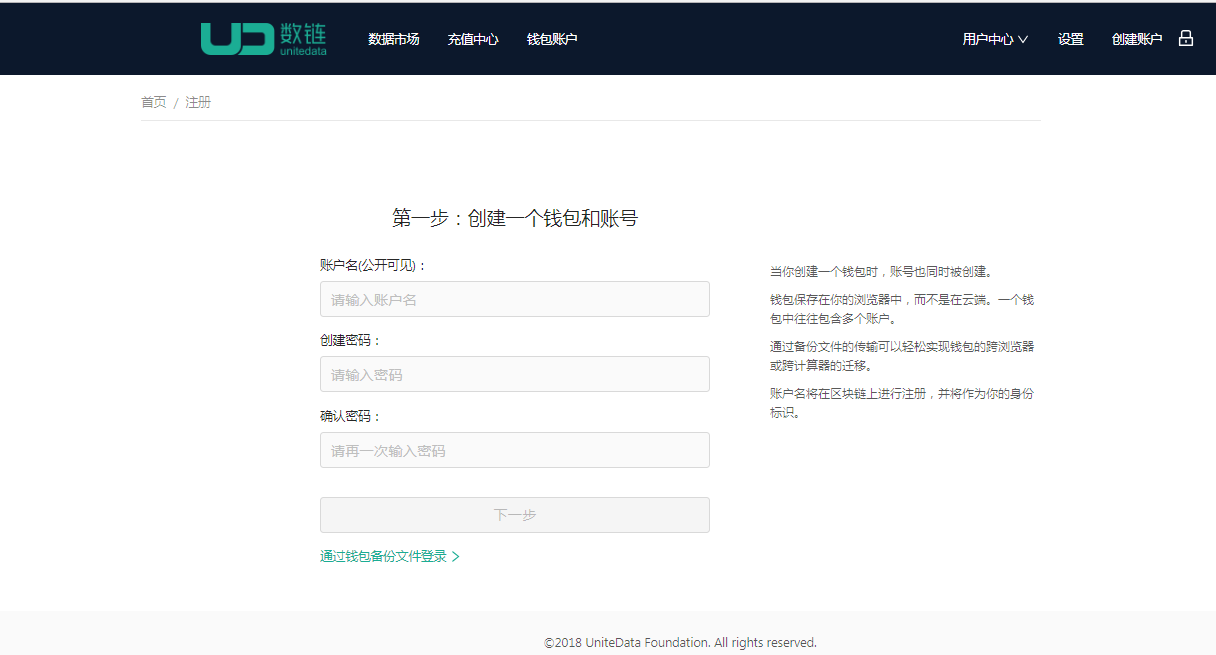
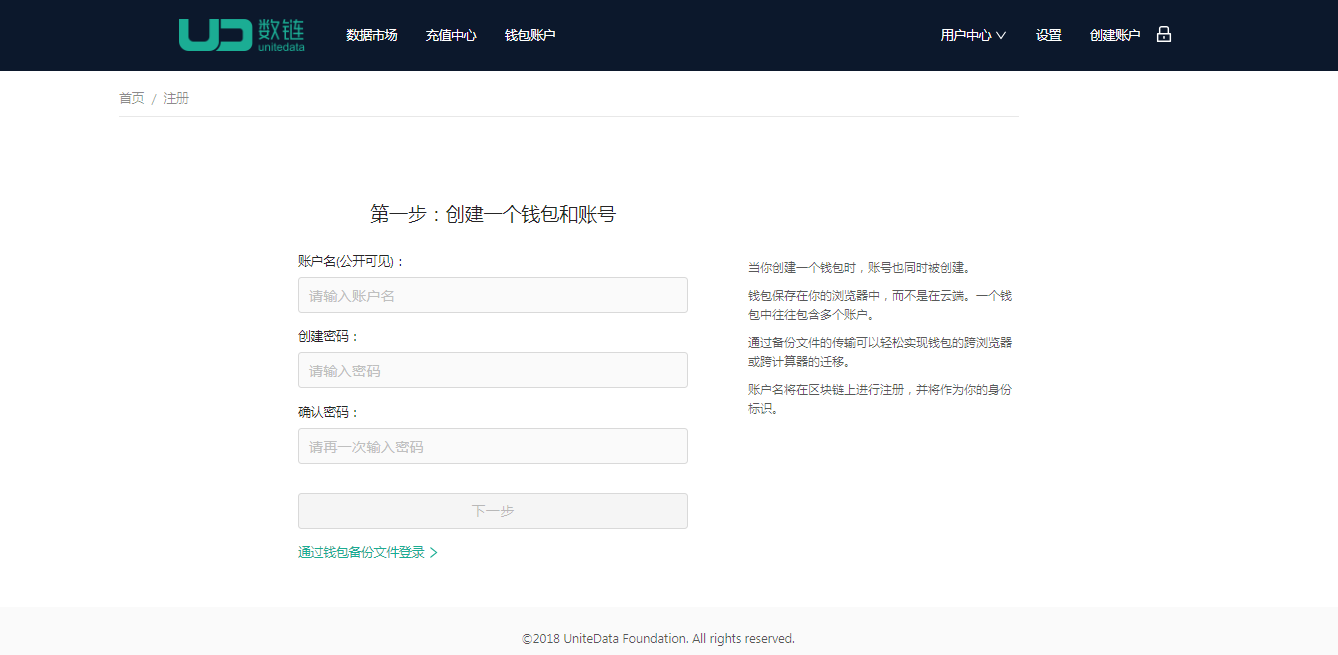
更改创建账户图片大小

diff --git a/wallet_manual.md b/wallet_manual.md
@@ -2,7 +2,7 @@
 ## 创建账号
 ##### 基本流程：1.创建一个钱包和账号 -> 2.备份钱包 -> 3.创建成功
 1. 创建一个钱包和账号
-	* <img width=415 height=197 id="图片 1" src="images/image002.png">
+	* <img width=415 height=220 id="图片 1" src="images/image002.png">
 	* 输入账号，密码，确认密码，勾选协议。点击【下一步】
 	* 注意点：账户名规则为5-12位，以小写字母+数字+点号组成，最后一位不能为点号。
 2.备份钱包
